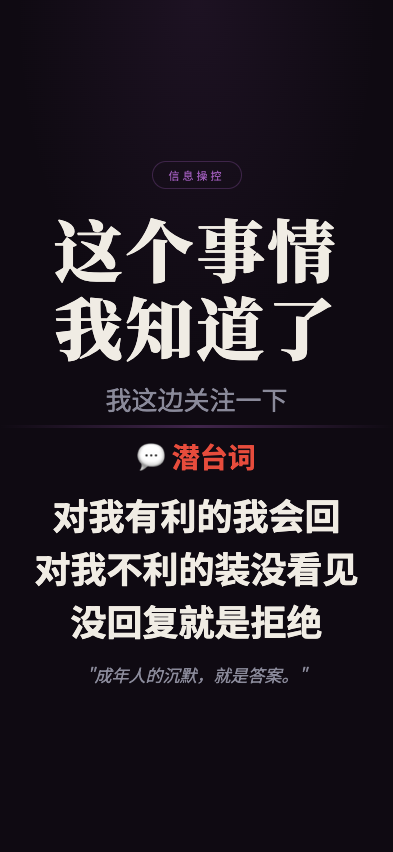
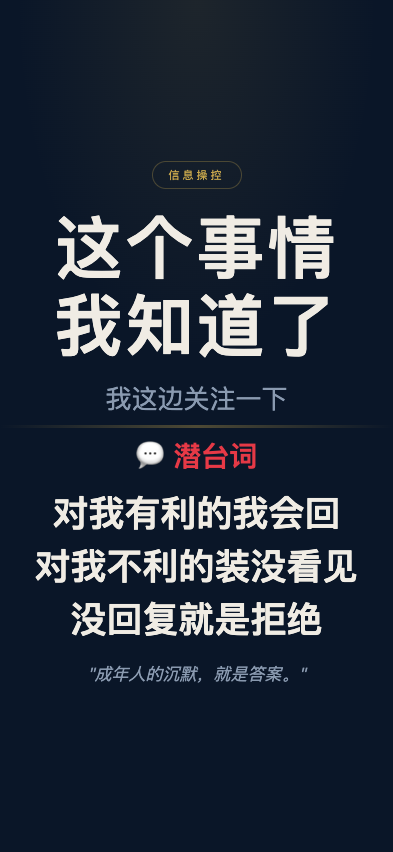
feat: 职场生存法则 screenshot - zhegeshiqingwozhidaole

diff --git a/wuliao-tools/tools/biz-speak/scenes/zhegeshiqingwozhidaole.html b/wuliao-tools/tools/biz-speak/scenes/zhegeshiqingwozhidaole.html
@@ -7,11 +7,11 @@
 <link href="https://fonts.googleapis.com/css2?family=Noto+Serif+SC:wght@400;700;900&family=Noto+Sans+SC:wght@300;400;700&display=swap" rel="stylesheet">
 <style>
   :root {
-    --bg: #0f0a12;
+    --bg: #0a1628;
     --text: #f0ece4;
-    --text-dim: #8a8a9a;
-    --gold: #9b59b6;
-    --red: #e74c3c;
+    --text-dim: #8a9ab0;
+    --gold: #c9a84c;
+    --red: #e63946;
   }
   * { margin:0; padding:0; box-sizing:border-box; }
   html, body { width:100%; height:100%; overflow:hidden; }
@@ -24,11 +24,11 @@
   }
   body::before {
     content:''; position:absolute; top:0; left:0; right:0; height:45%;
-    background:radial-gradient(ellipse at 50% 0%, rgba(155,89,182,0.1) 0%, transparent 65%);
+    background:radial-gradient(ellipse at 50% 0%, rgba(201,168,76,0.1) 0%, transparent 65%);
     pointer-events:none; z-index:0;
   }
   .top { flex:1; display:flex; flex-direction:column; align-items:center; justify-content:flex-end; padding:4px 28px 8px; position:relative; z-index:1; }
-  .tag { font-size:11px; letter-spacing:3px; color:var(--gold); border:1px solid rgba(155,89,182,0.3); padding:5px 16px; border-radius:50px; margin-bottom:20px; }
+  .tag { font-size:11px; letter-spacing:3px; color:var(--gold); border:1px solid rgba(201,168,76,0.3); padding:5px 16px; border-radius:50px; margin-bottom:20px; }
   .main-title { font-family:'Noto Serif SC'; font-size:68px; font-weight:900; text-align:center; line-height:1.15; letter-spacing:3px; min-width:0; overflow-wrap:break-word; max-width:92%; }
   .sub-title { font-size:26px; color:var(--text-dim); text-align:center; margin-top:14px; }
   .divider { width:100%; height:3px; background:linear-gradient(90deg,transparent,var(--gold),transparent); opacity:0.35; flex-shrink:0; position:relative; z-index:1; }
@@ -39,7 +39,7 @@
   .quote { font-size:17px; color:var(--text-dim); font-style:italic; text-align:center; line-height:1.8; margin-top:18px; padding:0 12px; }
 </style>
 </head>
-<body>
+<body class="theme-1">
   <div class="top">
     <div class="tag">信息操控</div>
     <div class="main-title">这个事情我知道了</div>
@@ -49,9 +49,7 @@
   <div class="bottom">
     <div class="truth-label">💬 潜台词</div>
     <div class="truth-lines">
-      <div class="truth-line">对我有利的我会回</div>
-      <div class="truth-line">对我不利的装没看见</div>
-      <div class="truth-line">没回复就是拒绝</div>
+      <div class="truth-line">对我有利的我会回</div><div class="truth-line">对我不利的装没看见</div><div class="truth-line">没回复就是拒绝</div>
     </div>
     <div class="quote">"成年人的沉默，就是答案。"</div>
   </div>
